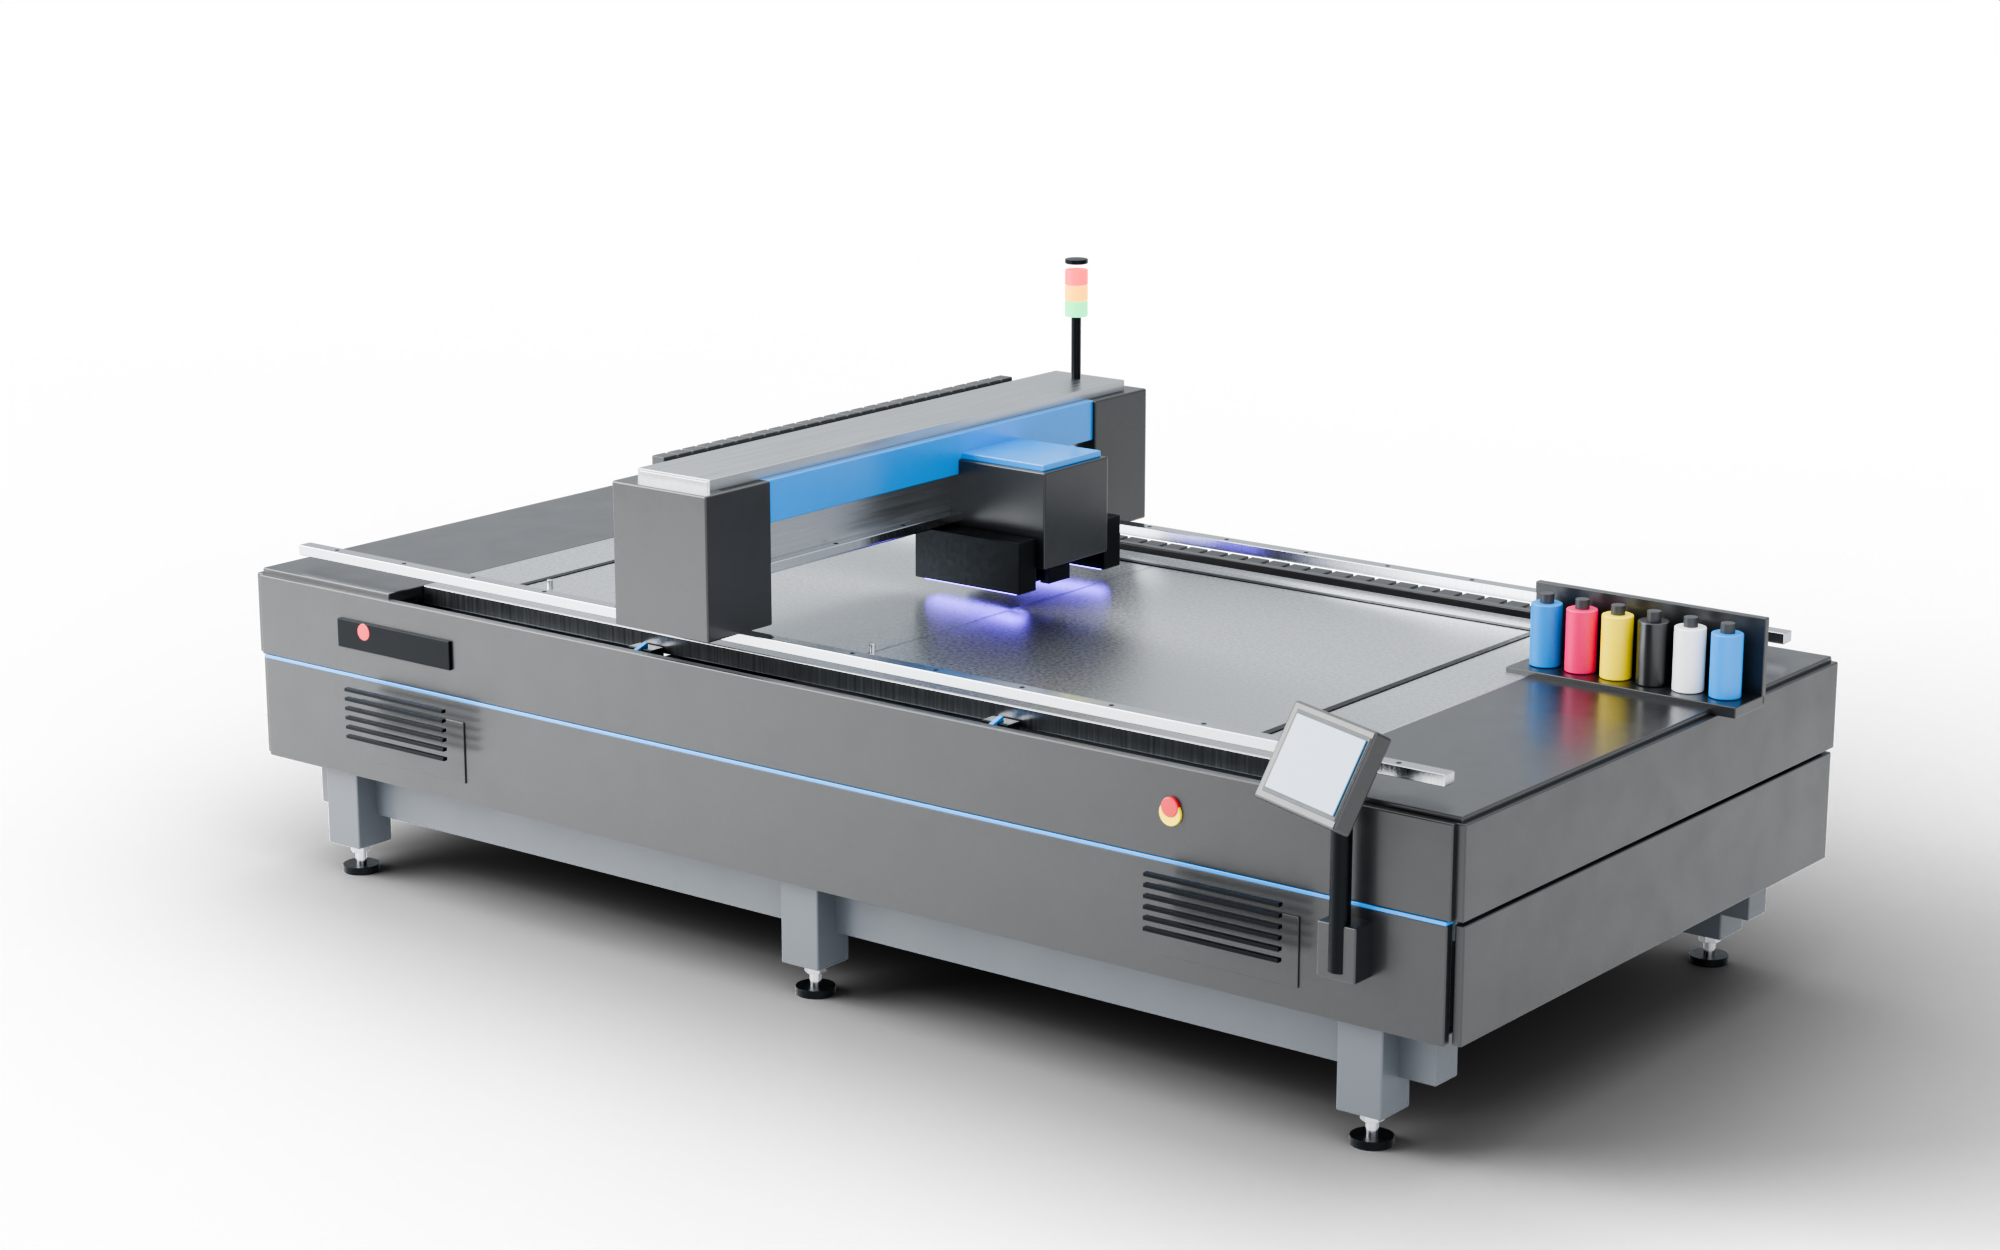
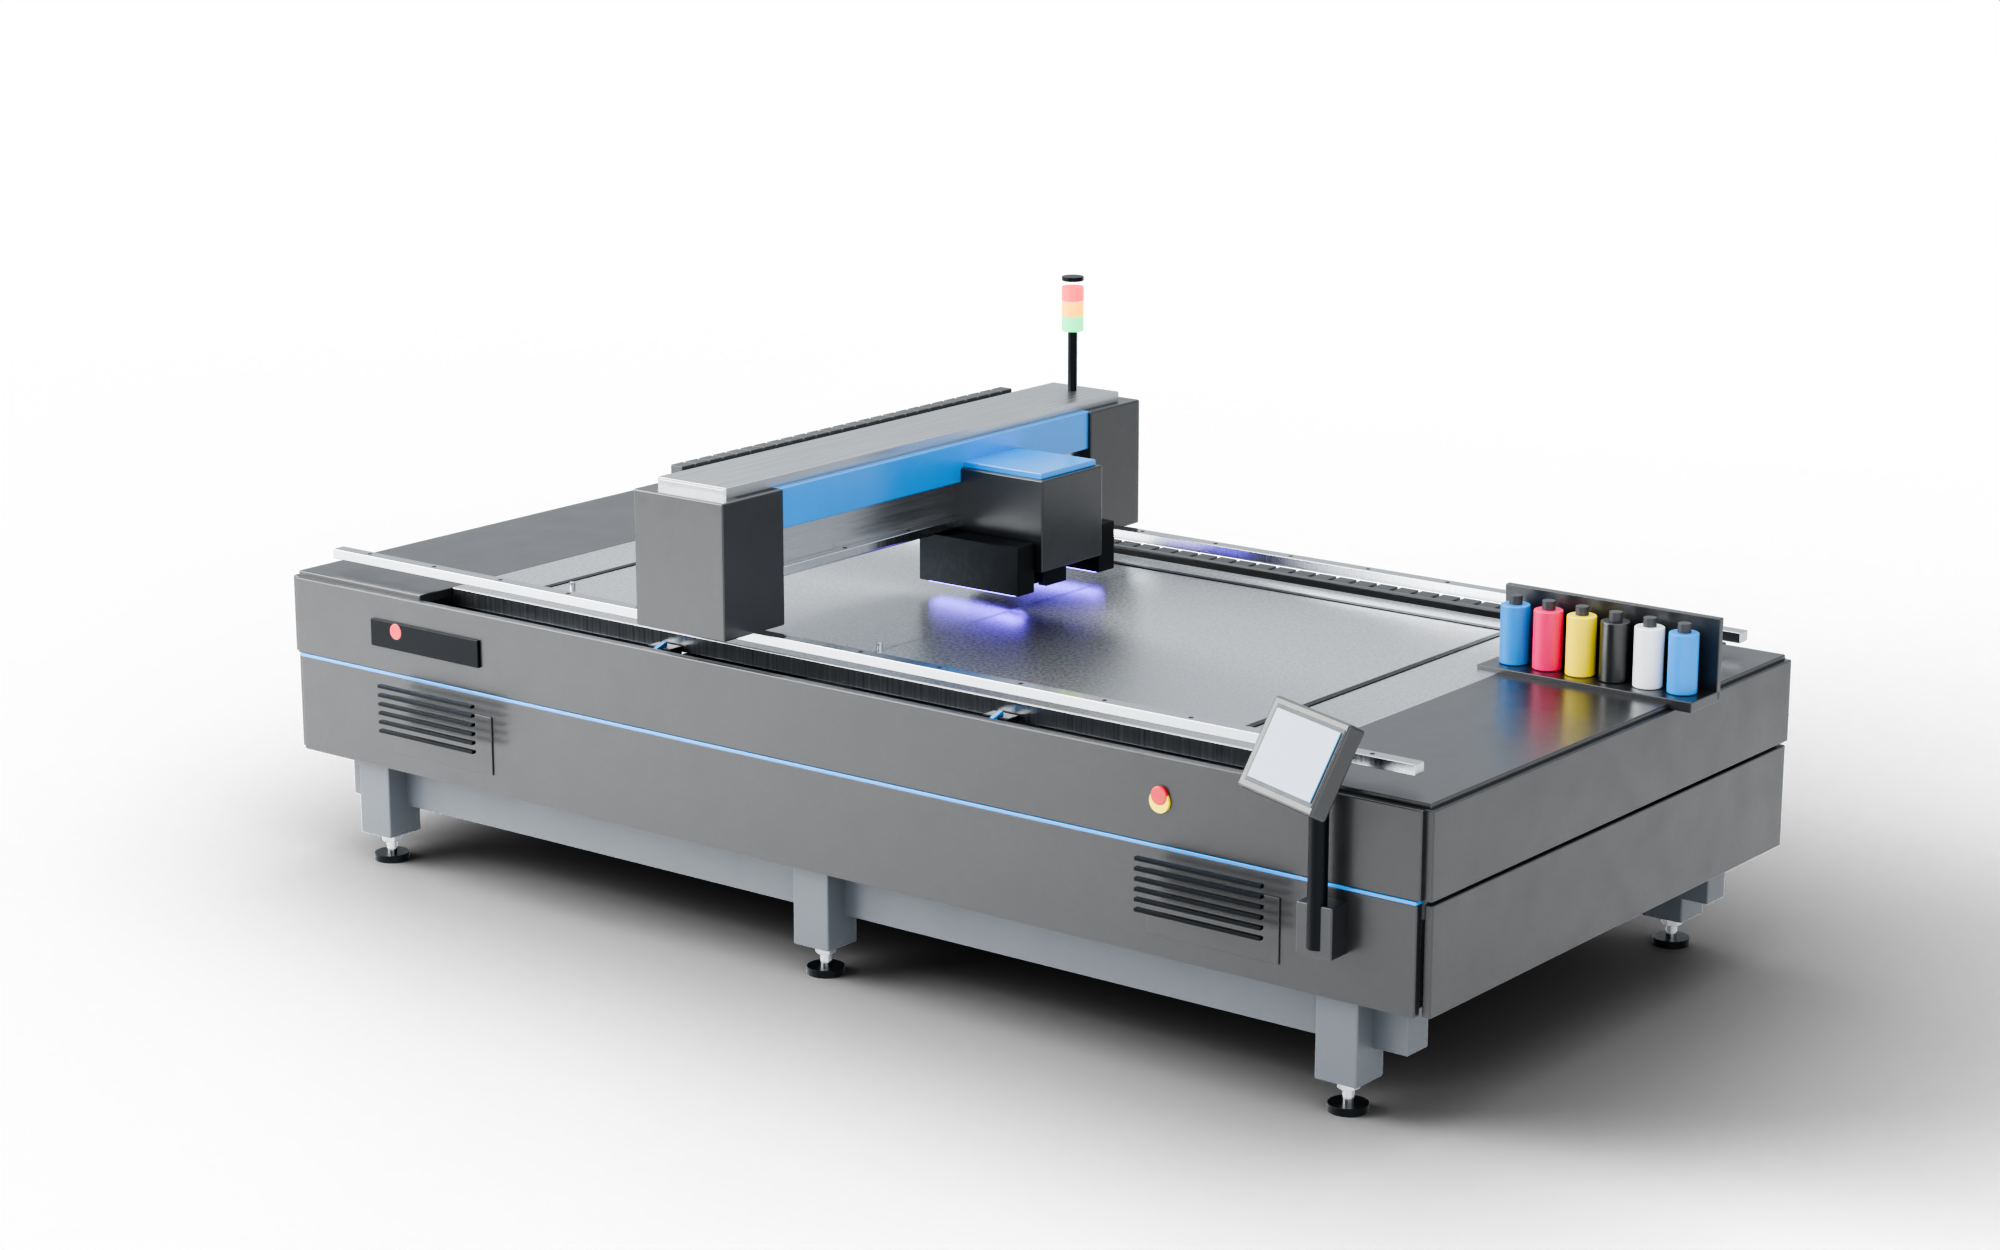
Render kadrajını iki eksende çöz, JPEG yedeğini siyahtan kurtar, chevron'u merkeze al
KADRAJ (G1)
frame_subject() yalnızca yatay FOV'a çözüyordu. Kare 16:10, yani dar olan
eksen dikey; yatayda sığan özne dikeyde kesiliyordu. DTF'de — setin en
yükseği, yazıcı kadar yüksek toz ünitesiyle — gövde tuvalin son piksel
satırına kadar iniyordu.

İlk düzeltme dikey ekseni de hesaba kattı ama sınırlayıcı KÜRE'yi kullanıyordu.
Küre, uzun ve yassı bir makine için savurgan: 4.4 m'lik flatbed'in köşegeni
kameranın gördüğü her şeyden büyük, ve onu dar dikey alana sığdırmak makineyi
kadrajın %38'ine düşürdü. Şimdi gerçek sınırlayıcı KUTUNUN sekiz köşesi kamera
uzayına projekte edilip mesafe iki eksen için de tam çözülüyor.

  makine yüksekliği yayılımı  45.8 puan -> 8.7 puan  (%62.9-71.6 bandı)
  alt boşluk                  0-8%      -> 8.4-11.4% (dördünde de var)
  DTF alt kesiği              var       -> yok

Hero merceği ve yüksekliği tek değere eşitlendi (72 mm / 14°); azimut makine
başına kaldı, her birinin gösterilecek bir yüzü var.

JPEG YEDEĞİ (G2)
Cutout'lar saydam, JPEG'in alfası yok ve sharp'ın varsayılan zemini siyah:
40 dosya siyah dikdörtgen olarak üretiliyordu (ortalama parlaklık 194 -> 39,
piksellerin %71'i L<32). Yalnızca ne AVIF ne WebP destekleyen bir tarayıcı o
dosyayı görüyor, ama "siyah kutu" kabul edilebilir bir yedek değil.
Düzleştirme format klonunda yapılıyor — paylaşılan boru hattında yapılsaydı
AVIF ve WebP de alfasını kaybederdi. Doğrulandı: jpg ortalaması 196, köşe
kemik rengi; avif/webp hâlâ 4 kanal.

CHEVRON (P1)
[…]

Changed region(s): [[0.124, 0.1872, 0.961, 0.9672]]

diff --git a/blender/lib/studio.py b/blender/lib/studio.py
@@ -198,13 +198,55 @@ def add_camera(target: Vector, distance: float, azimuth_deg: float = 38.0,
 
 
 def frame_subject(cam, objs, margin: float = 1.12) -> None:
-    """Dolly the camera back until the subject fits, keeping the angle."""
+    """Dolly the camera back until the subject fits, keeping the angle.
+
+    Both axes, not just the wide one. The frame is 16:10, so the vertical field
+    of view is the narrower of the two; solving only for the horizontal put a
+    tall subject outside the frame while the arithmetic said it fitted. On the
+    DTF system — the tallest of the set, with a shaker as high as the printer —
+    that cut the chassis off at the bottom edge of the canvas.
+    """
     from .build import bounds
     lo, hi = bounds(objs)
     centre = (lo + hi) / 2
-    radius = (hi - lo).length / 2
-    fov = 2 * math.atan(cam.data.sensor_width / (2 * cam.data.lens))
-    dist = radius / math.tan(fov / 2) * margin
+
+    scn = bpy.context.scene
+    render_w = scn.render.resolution_x * scn.render.pixel_aspect_x
+    render_h = scn.render.resolution_y * scn.render.pixel_aspect_y
+    # Blender's AUTO sensor fit puts the sensor width on the LONGER axis.
+    sensor_w = cam.data.sensor_width
+    fit = cam.data.sensor_fit
+    if fit == "VERTICAL" or (fit == "AUTO" and render_h > render_w):
+        sensor_h, sensor_w = sensor_w, sensor_w * (render_w / render_h)
+    else:
+        sensor_h = sensor_w * (render_h / render_w)
+
+    tan_h = sensor_w / (2 * cam.data.lens)
+    tan_v = sensor_h / (2 * cam.data.lens)
+
+    # Fit the actual bounding BOX, projected into camera space — not the
+    # bounding sphere. The sphere is wildly conservative for a machine that is
+    # long and low: a 4.4 m flatbed's diagonal is far bigger than anything the
+    # camera ever sees of it, and fitting that against the narrow vertical field
+    # pushed the camera back until the machine filled two fifths of the frame.
+    forward = (centre - cam.location).normalized()
+    world_up = Vector((0.0, 0.0, 1.0))
+    right = forward.cross(world_up).normalized()
+    if right.length < 1e-6:                     # camera straight down
+        right = Vector((1.0, 0.0, 0.0))
+    up = right.cross(forward).normalized()
+
+    dist = 0.0
+    for cx in (lo.x, hi.x):
+        for cy in (lo.y, hi.y):
+            for cz in (lo.z, hi.z):
+                p = Vector((cx, cy, cz)) - centre
+                depth = p.dot(forward)
+                # z = depth + d must satisfy |x| <= tan * z on both axes.
+                dist = max(dist,
+                           abs(p.dot(right)) / tan_h - depth,
+                           abs(p.dot(up)) / tan_v - depth)
+    dist *= margin
     direction = (cam.location - centre).normalized()
     cam.location = centre + direction * dist
     cam.rotation_euler = (centre - cam.location).to_track_quat("-Z", "Y").to_euler()

diff --git a/blender/machines/flatbed_uv.py b/blender/machines/flatbed_uv.py
@@ -211,7 +211,7 @@ def assemble(accent: str = shading.CYAN, gantry_x: float = -0.42):
 def camera_shots():
     """Named hero angles for the stills gallery — azimuth, elevation, lens."""
     return {
-        "hero": (38, 14, 70),
+        "hero": (38, 14, 72),
         "three-quarter": (58, 20, 85),
         "front": (0, 8, 85),
         "detail-carriage": (-46, 26, 135),

diff --git a/blender/machines/dtf.py b/blender/machines/dtf.py
@@ -325,7 +325,7 @@ def assemble(accent: str = shading.CYAN, carriage_y: float = -0.10):
 def camera_shots():
     """Named stills — azimuth, elevation, lens."""
     return {
-        "hero": (38, 15, 70),
+        "hero": (38, 14, 72),
         "three-quarter": (58, 20, 82),
         "front": (0, 8, 90),
         "detail-bridge": (-24, 17, 118),

diff --git a/blender/machines/ecosolvent.py b/blender/machines/ecosolvent.py
@@ -251,7 +251,7 @@ def assemble(accent: str = shading.MAGENTA, cutter_x: float = 0.56):
 def camera_shots():
     """Named stills — azimuth, elevation, lens."""
     return {
-        "hero": (38, 15, 72),
+        "hero": (38, 14, 72),
         "three-quarter": (60, 18, 86),
         "front": (0, 8, 92),
         "detail-cut": (-30, 19, 128),

diff --git a/blender/machines/roll_uv.py b/blender/machines/roll_uv.py
@@ -252,7 +252,7 @@ def assemble(accent: str = shading.CYAN, carriage_x: float = 0.48):
 def camera_shots():
     """Named stills — azimuth, elevation, lens."""
     return {
-        "hero": (36, 13, 72),
+        "hero": (36, 14, 72),
         "three-quarter": (58, 18, 82),
         "front": (0, 7, 88),
         "detail-web": (-25, 18, 118),
